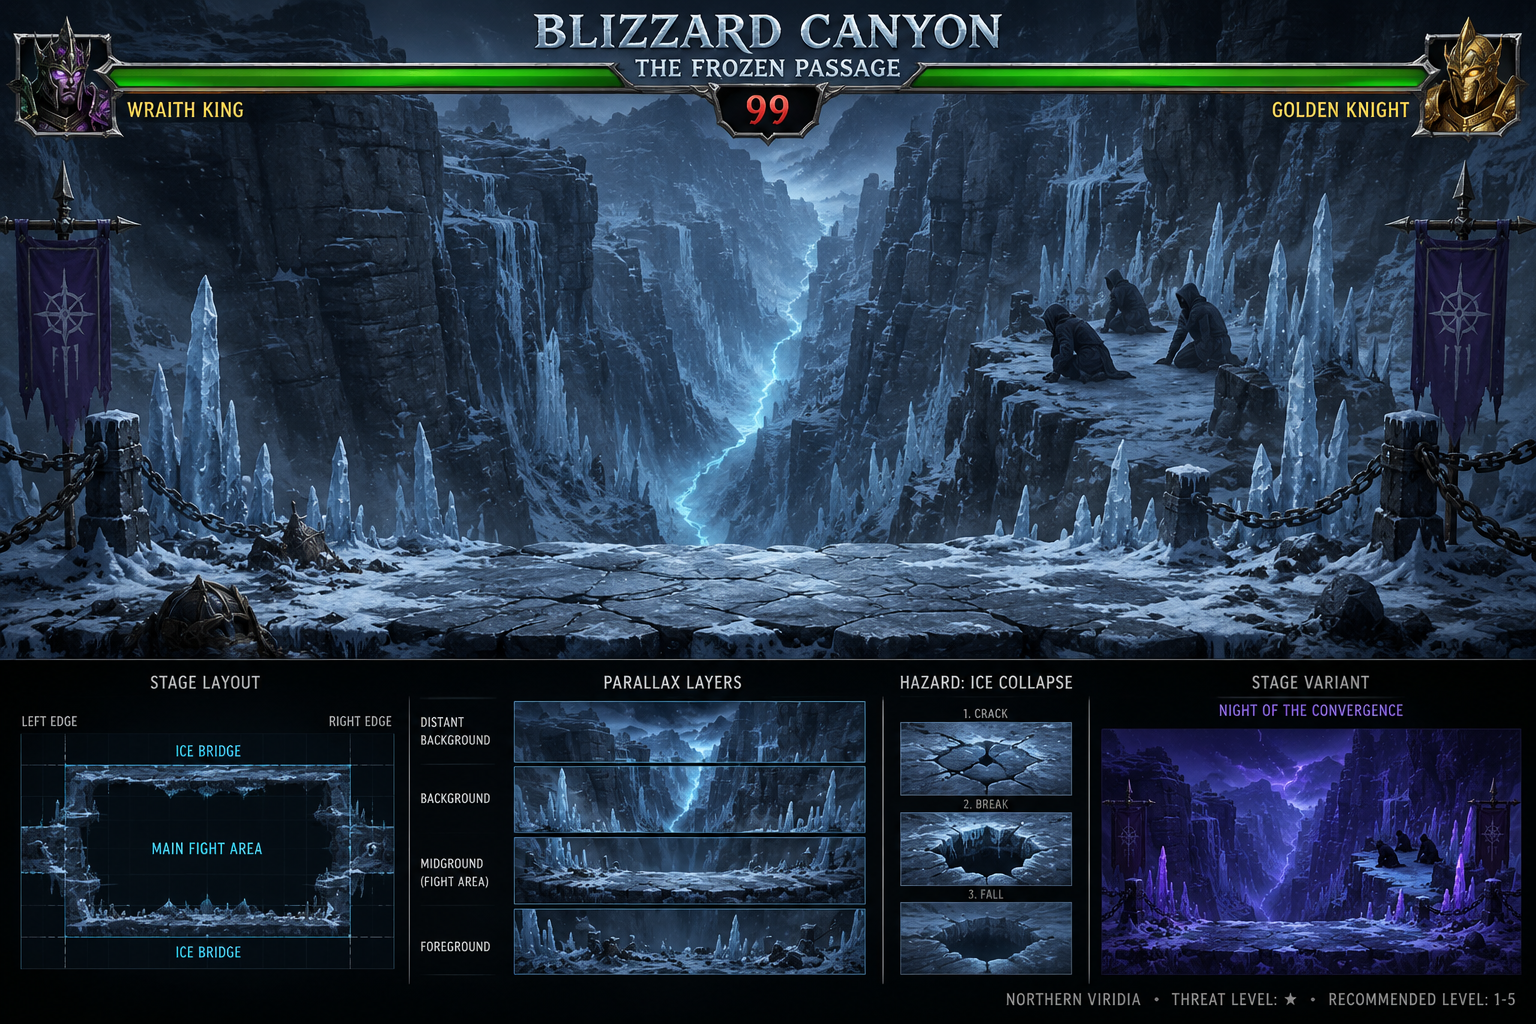
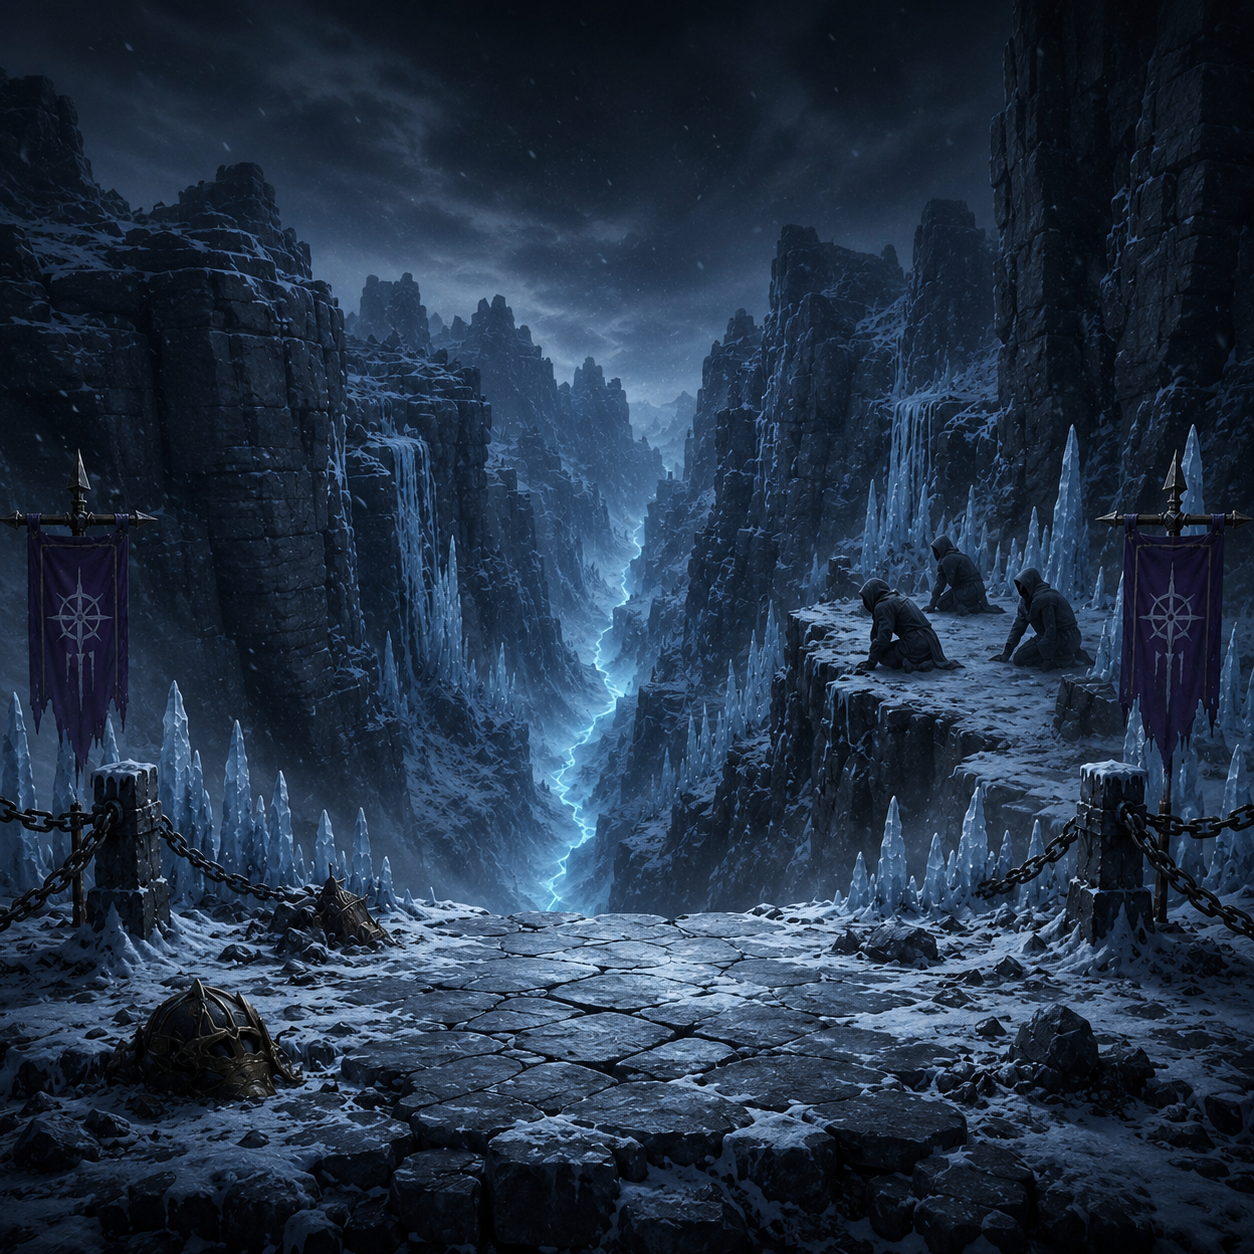
feat(realms): adopt new 1:1 Blizzard Canyon arena (1254x1254, no crop needed)
User replaced map_blizzardcanyon.png with a square arena purpose-
built for the chassis viewport. Old version was 1536x1024 landscape
with built-in HUD banners and a bottom panel of reference diagrams
that I had to crop around (y 145-580). New version is 1254x1254
square — canyon scene, stone fighting platform, ice spikes,
purple wraith side banners — just the playable art, no HUD, no
reference material.

CHANGES
- drawFightStage now draws the full image (no source crop) stretched
  to 640x682 — slight vertical squeeze the canyon scene absorbs
  cleanly thanks to the symmetric composition.
- Vignette softened (0.45 -> 0.35 alpha) since the new image
  already has natural darkness at the edges.
- Top-fade band shortened (110 -> 80px) and softened (0.78 -> 0.55
  alpha) — the new image's night sky is already dark enough for HP
  bars to read cleanly without an aggressive fade.

FIGHTER_GROUND_Y unchanged — at CANVAS_H - 80 the fighters' feet
land on the stone fighting platform in the new image.

diff --git a/realms.html b/realms.html
@@ -1472,21 +1472,21 @@ function drawFightStage() {
   // Arena background — Blizzard Canyon (cropped center, no UI panels), with
   // fallback to the procedural purple/dark stage if the image hasn't loaded.
   if (arenaReady) {
-    // Source crop: skip the source image's BUILT-IN HUD (Wraith King / Blizzard
-    // Canyon title / 99 timer / Golden Knight banners) at the top, AND the bottom
-    // reference panels. Source 1536x1024 → start at y=145 (below the banner), end
-    // at y=580 (above the layout/parallax/hazards panels). Stretch to canvas.
-    const sx = 0, sy = 145, sw = ARENA_BLIZZARD.naturalWidth, sh = 435;
-    ctx.drawImage(ARENA_BLIZZARD, sx, sy, sw, sh, 0, 0, CANVAS_W, CANVAS_H);
-    // Vignette + top fade so the HP bars sit on a darker band
-    const vg = ctx.createRadialGradient(CANVAS_W/2, CANVAS_H/2, 200, CANVAS_W/2, CANVAS_H/2, CANVAS_W*0.7);
+    // New 1:1 square arena (1254x1254) designed to fit the chassis viewport
+    // exactly. No built-in HUD or reference panels to crop around — draw the
+    // full image stretched to canvas (640x682, slight vertical squeeze that
+    // the canyon scene absorbs cleanly).
+    ctx.drawImage(ARENA_BLIZZARD, 0, 0, ARENA_BLIZZARD.naturalWidth, ARENA_BLIZZARD.naturalHeight, 0, 0, CANVAS_W, CANVAS_H);
+    // Soft vignette + dark band at the very top so HP bars stay legible against
+    // the night-sky portion of the arena.
+    const vg = ctx.createRadialGradient(CANVAS_W/2, CANVAS_H/2, 220, CANVAS_W/2, CANVAS_H/2, CANVAS_W*0.75);
     vg.addColorStop(0, 'rgba(0,0,0,0)');
-    vg.addColorStop(1, 'rgba(0,0,0,0.45)');
+    vg.addColorStop(1, 'rgba(0,0,0,0.35)');
     ctx.fillStyle = vg; ctx.fillRect(0, 0, CANVAS_W, CANVAS_H);
-    const topFade = ctx.createLinearGradient(0, 0, 0, 110);
-    topFade.addColorStop(0, 'rgba(5, 3, 16, 0.78)');
+    const topFade = ctx.createLinearGradient(0, 0, 0, 80);
+    topFade.addColorStop(0, 'rgba(5, 3, 16, 0.55)');
     topFade.addColorStop(1, 'rgba(5, 3, 16, 0)');
-    ctx.fillStyle = topFade; ctx.fillRect(0, 0, CANVAS_W, 110);
+    ctx.fillStyle = topFade; ctx.fillRect(0, 0, CANVAS_W, 80);
   } else {
     // Fallback procedural arena
     const sky = ctx.createLinearGradient(0, 0, 0, CANVAS_H);